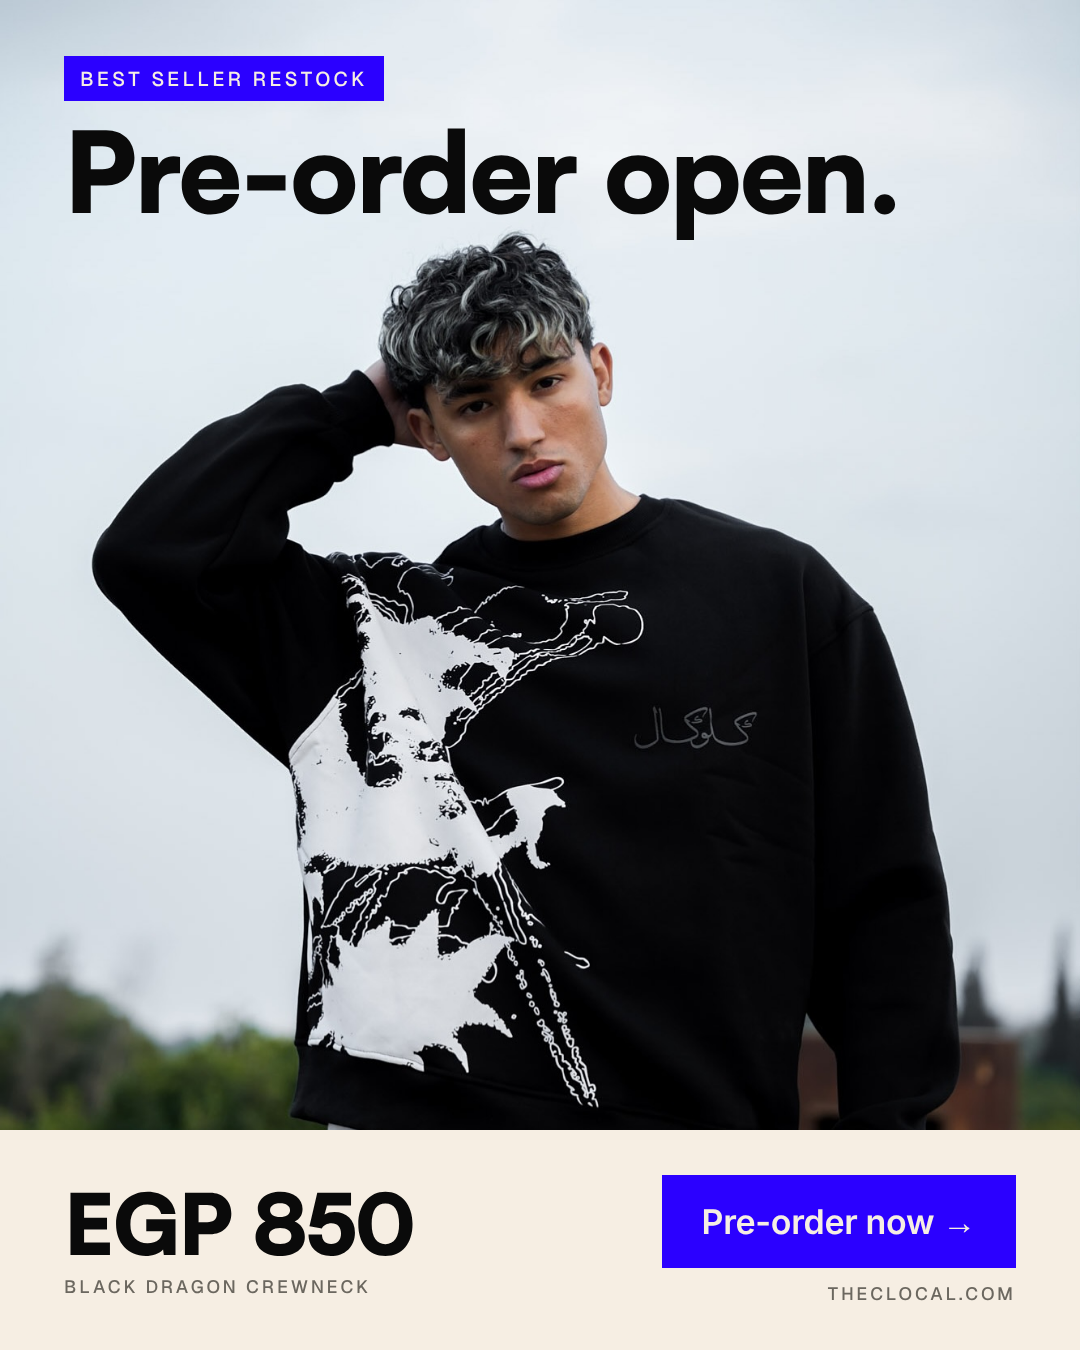
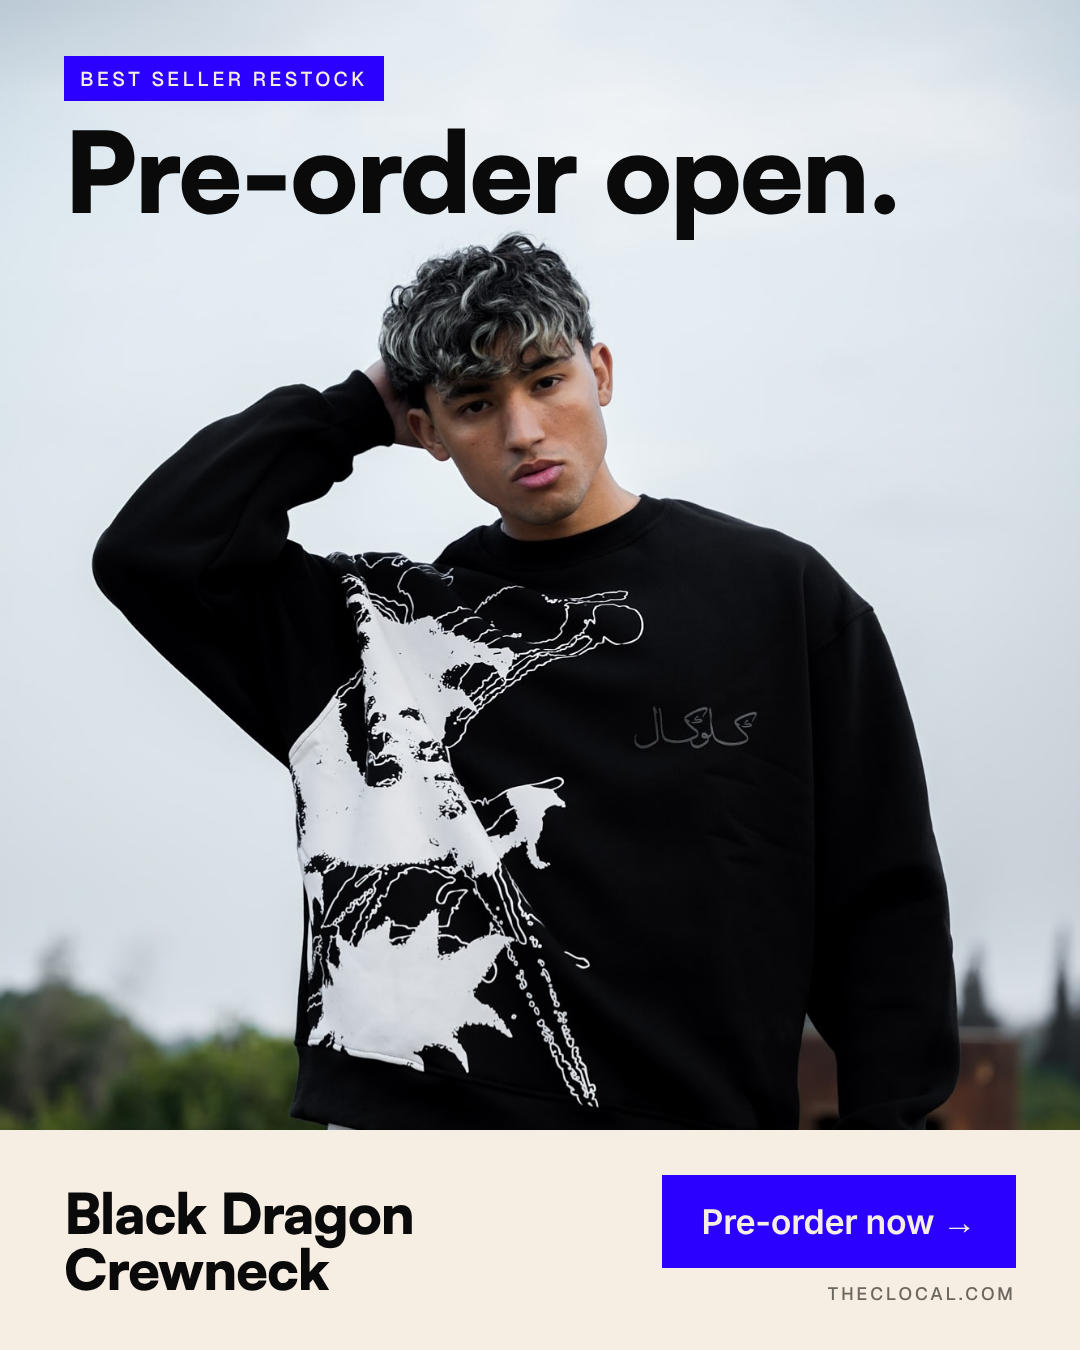
Remove price from AD06 direct-response creatives
Claude-Session: https://claude.ai/code/session_0134z9woteaCD6XRmPMXin1q

Changed region(s): [[0.0611, 0.8711, 0.3972, 0.9644]]

diff --git a/clocal-black-dragon-ads/src/ad06-direct-response_1x1.html b/clocal-black-dragon-ads/src/ad06-direct-response_1x1.html
@@ -5,7 +5,7 @@
   .col { position: absolute; left: 56px; top: 56px; bottom: 56px; width: 400px; display: flex; flex-direction: column; }
   .tag { align-self: flex-start; font-size: 18px; color: var(--cream); background: var(--blue); padding: 9px 14px 8px; }
   h1 { font-size: 68px; margin-top: 22px; }
-  .amt { font-family: "Satoshi"; font-weight: 900; font-size: 84px; letter-spacing: -0.02em; line-height: 1; margin-top: auto; }
+  .amt { font-family: "Satoshi"; font-weight: 900; font-size: 52px; letter-spacing: -0.02em; line-height: 1; margin-top: auto; }
   .name { font-size: 16px; color: var(--gray-500); margin-top: 12px; }
   .btn { margin-top: 36px; align-self: flex-start; font-size: 30px; padding: 22px 32px; }
   .site { font-size: 16px; color: var(--gray-500); margin-top: 14px; }
@@ -17,8 +17,7 @@
   <div class="col">
     <span class="label tag">Best seller restock</span>
     <h1 class="display">Pre-order<br>open.</h1>
-    <div class="amt">EGP 850</div>
-    <div class="label name">Black Dragon Crewneck</div>
+    <div class="amt">Black Dragon<br>Crewneck</div>
     <span class="btn">Pre-order now →</span>
     <span class="label site">theclocal.com</span>
     <span class="wm"></span>

diff --git a/clocal-black-dragon-ads/src/ad06-direct-response_4x5.html b/clocal-black-dragon-ads/src/ad06-direct-response_4x5.html
@@ -6,7 +6,7 @@
   .tag { display: inline-block; font-size: 20px; color: var(--cream); background: var(--blue); padding: 10px 16px 9px; }
   .over h1 { font-size: 112px; margin-top: 18px; color: var(--ink); }
   .band { position: absolute; left: 64px; right: 64px; top: 1130px; bottom: 0; display: flex; justify-content: space-between; align-items: center; }
-  .amt { font-family: "Satoshi"; font-weight: 900; font-size: 84px; letter-spacing: -0.02em; line-height: 1; }
+  .amt { font-family: "Satoshi"; font-weight: 900; font-size: 56px; letter-spacing: -0.02em; line-height: 1; }
   .name { font-size: 18px; color: var(--gray-500); margin-top: 10px; }
   .right { display: flex; flex-direction: column; align-items: flex-end; gap: 14px; }
   .right .label { font-size: 18px; color: var(--gray-500); }
@@ -19,7 +19,7 @@
     <h1 class="display">Pre-order open.</h1>
   </div>
   <div class="band">
-    <div><div class="amt">EGP 850</div><div class="label name">Black Dragon Crewneck</div></div>
+    <div><div class="amt">Black Dragon<br>Crewneck</div></div>
     <div class="right"><span class="btn">Pre-order now →</span><span class="label">theclocal.com</span></div>
   </div>
 </div>
